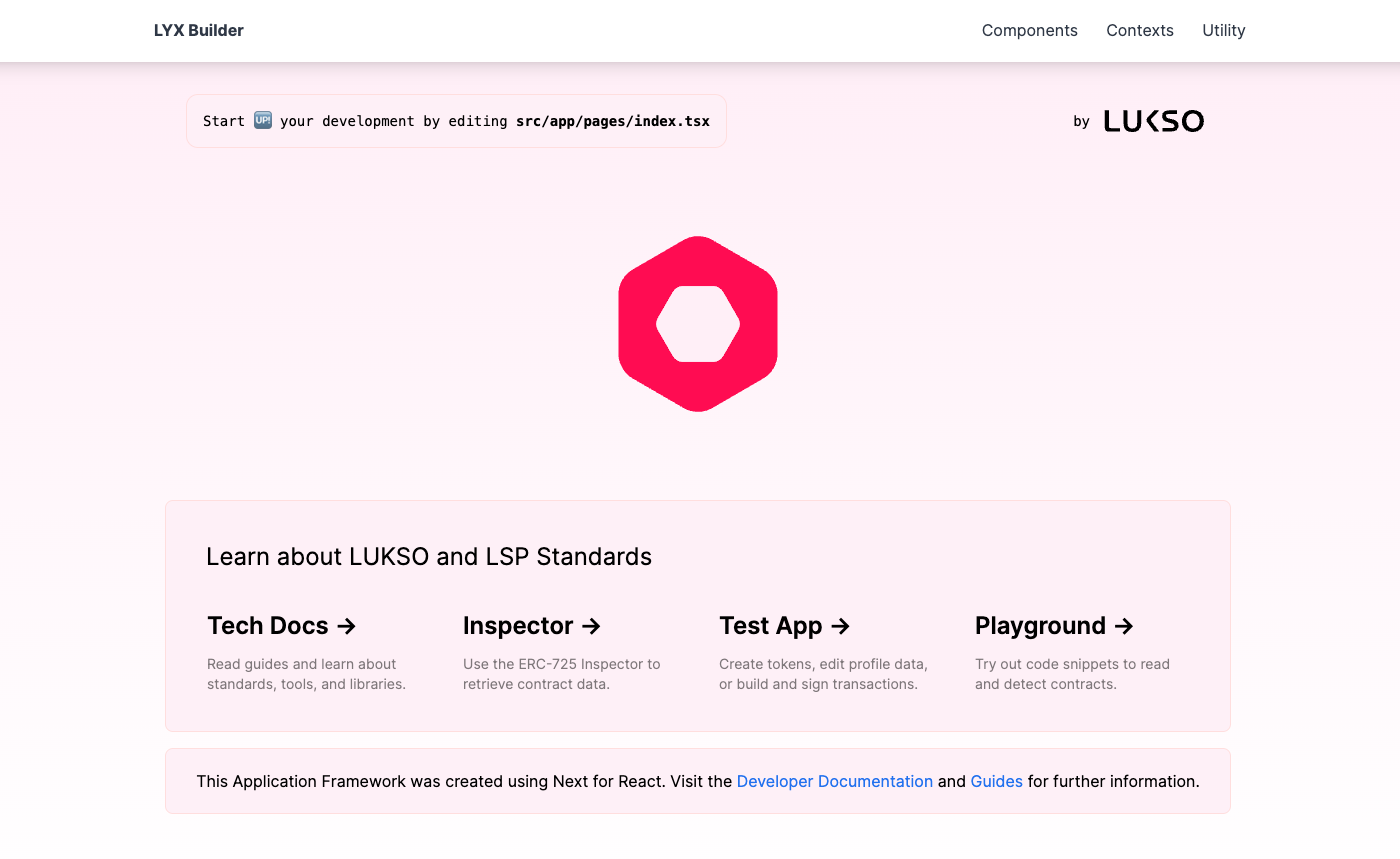
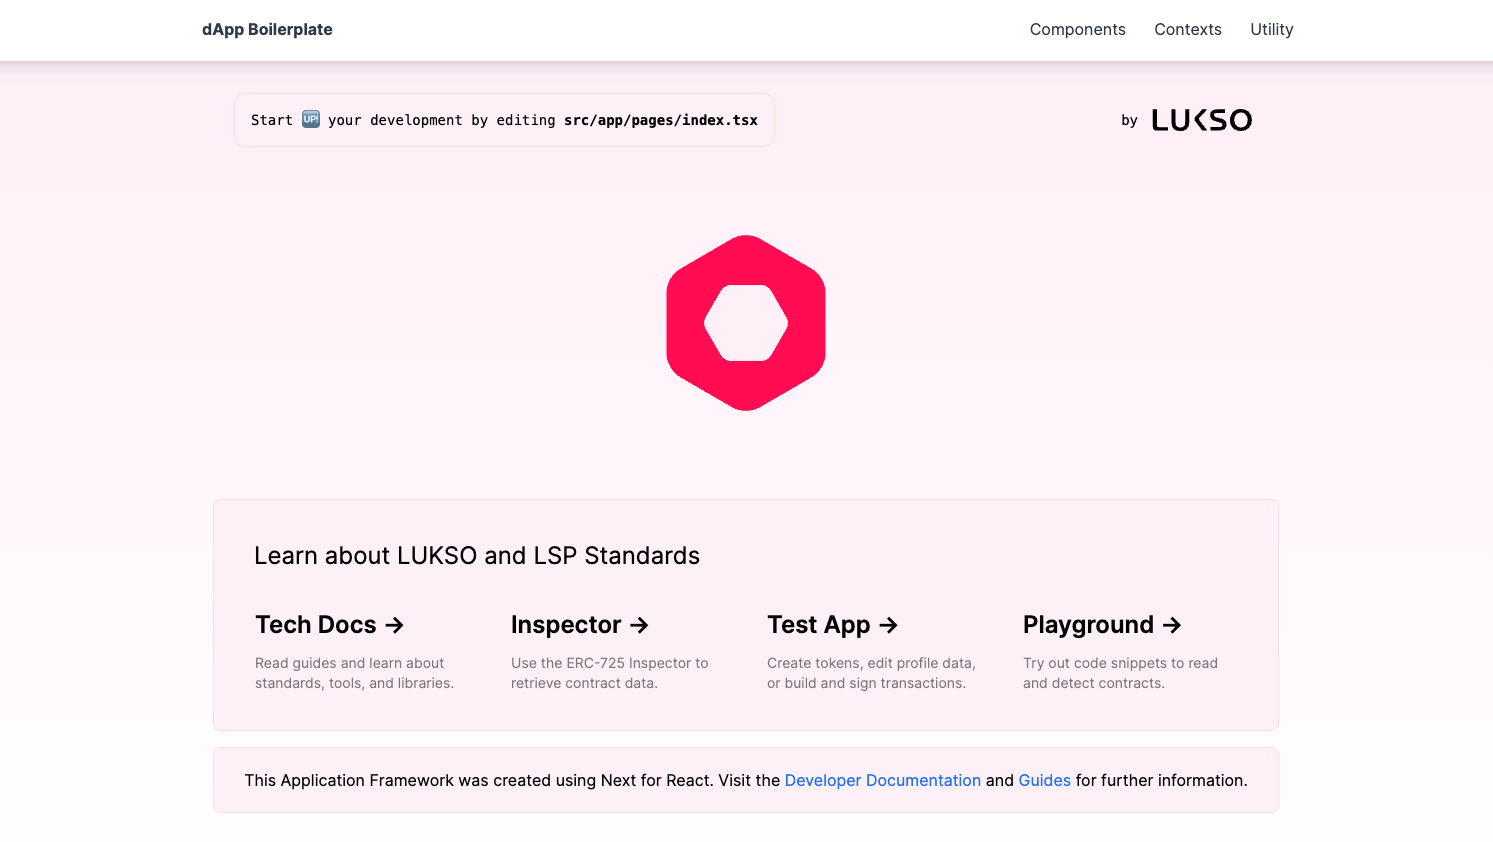
update front page

diff --git a/src/components/MenuBar/MenuBar.tsx b/src/components/MenuBar/MenuBar.tsx
@@ -17,7 +17,7 @@ const MenuBar = () => {
                 href="/"
                 className="flex items-center py-5 px-2 text-gray-700 hover:text-gray-900"
               >
-                <span className="font-bold ml-2">LUKSO dApp Boilerplate</span>
+                <span className="font-bold ml-2">dApp Boilerplate</span>
               </Link>
             </div>
           </div>
